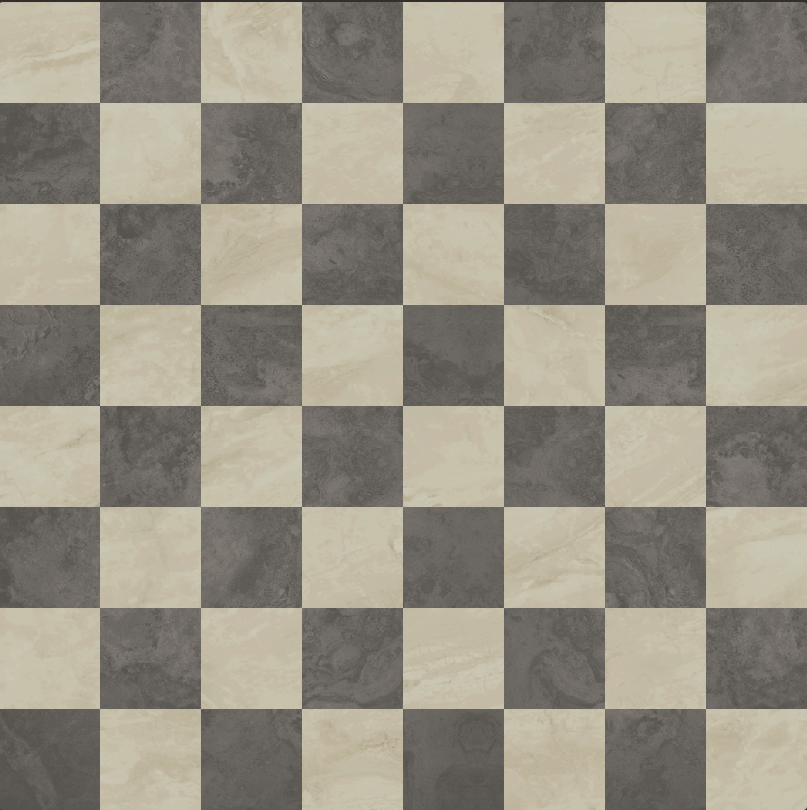
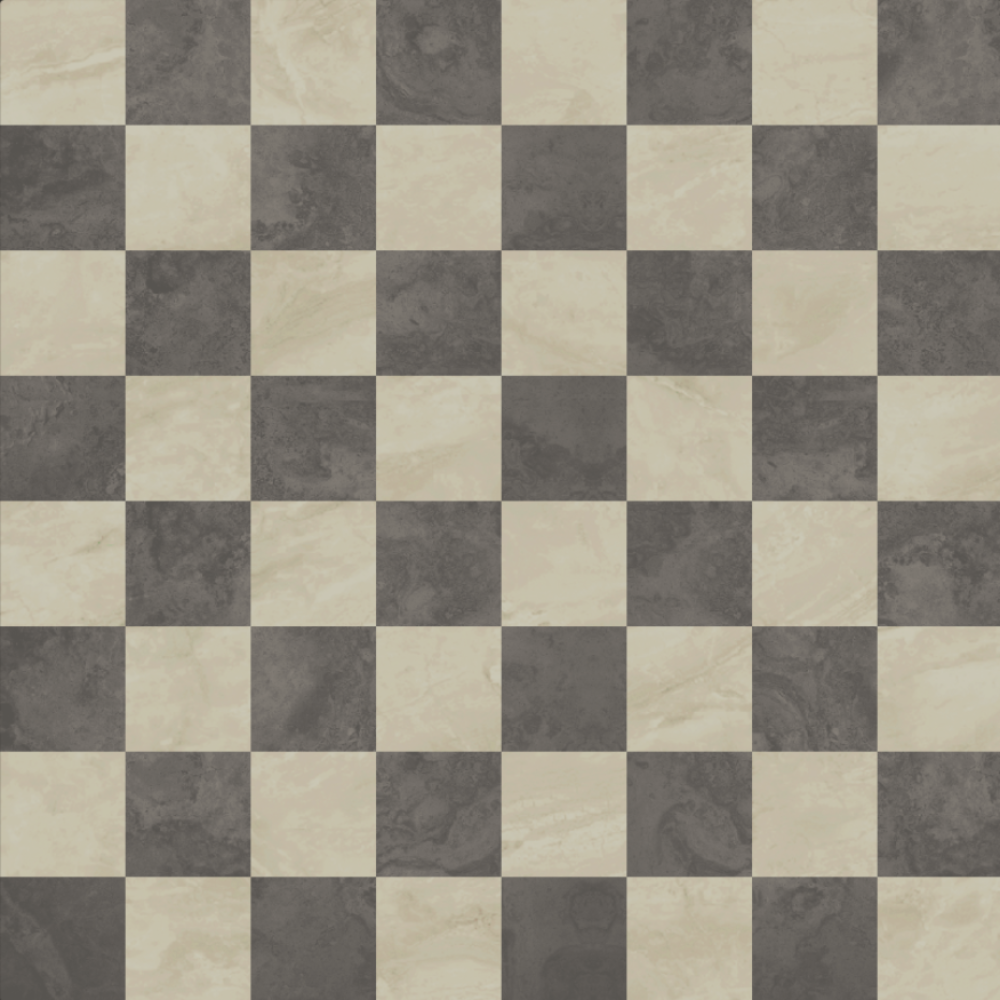
plansza

diff --git a/SZASZKII/SZASZKII.cpp b/SZASZKII/SZASZKII.cpp
@@ -107,7 +107,7 @@ int main() {
     chessBoard.setRepeated(true);
     sf::Sprite sprite;
     sprite.setTexture(chessBoard);
-    sprite.setTextureRect(sf::IntRect(0, 100, 875, 875));
+    sprite.setTextureRect(sf::IntRect(0, 125, 1000, 1125));
 
     ///////////////////////////////////////
     ///////////////////////////////////////
